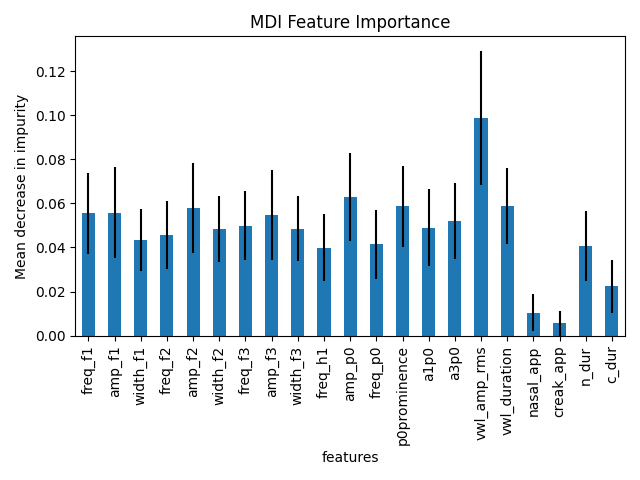
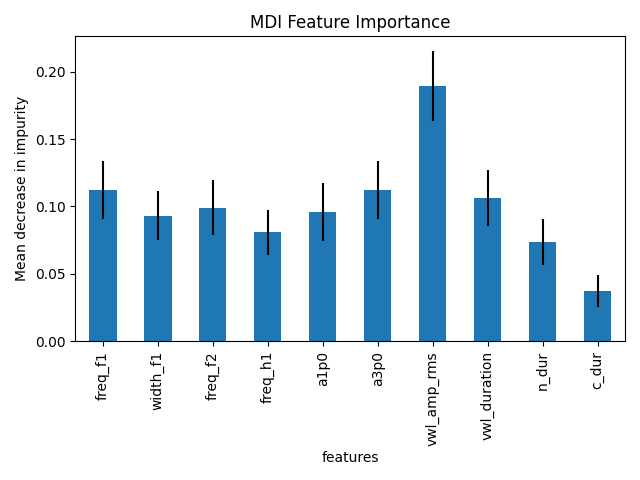
doing some tests

Changed region(s): [[0.0, 0.1562, 0.9688, 0.9375], [0.0625, 0.125, 0.125, 0.1562]]

diff --git a/py_files/decision_tree/experiment_2.py b/py_files/decision_tree/experiment_2.py
@@ -13,7 +13,20 @@ def main():
 
     full_data = controll_data[controll_data["timepoint"] == 3]
 
-    data = full_data.drop(columns=["timepoint", "vowel", "appendix", "appendix_dur", "target"])
+    keep_list = ["freq_f1",
+                 "width_f1",
+                 "freq_f2",
+                 "freq_h1",
+                 "p0prominance",
+                 "a1p0",
+                 "a3p0",
+                 "vwl_amp_rms",
+                 "vwl_duration",
+                 "n_dur",
+                 "c_dur", ]
+
+    data = full_data[full_data.columns.intersection(keep_list)]
+    # .drop(columns=["timepoint", "vowel", "vwl_amp_rms", "appendix", "appendix_dur", "target"])
     data_target = full_data["target"]
 
     X_train, X_test, y_train, y_test = train_test_split(data, data_target, test_size=0.2, random_state=42)
